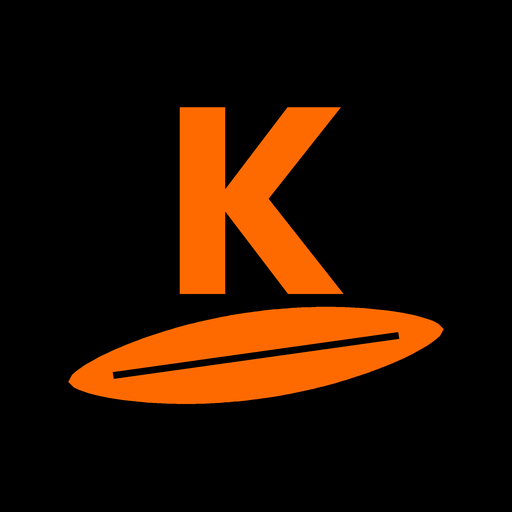
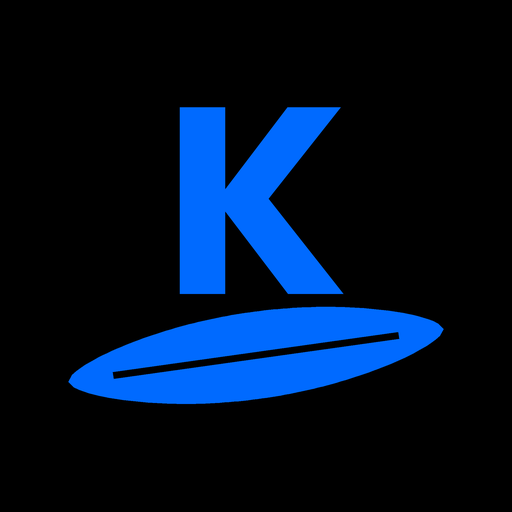
Add files via upload

Changed region(s): [[0.125, 0.1875, 0.875, 0.8125]]

diff --git a/index.html b/index.html
@@ -15,7 +15,7 @@
 <script src="https://cdn.jsdelivr.net/npm/@supabase/supabase-js@2"></script>
 <style>
 /* Change --a to your logo color */
-:root{--a:#ff6a00;--bg:#000;--c:#0d0d0d;--b:#262626;--t:#f2f2f2;--m:#8d8d8d;box-sizing:border-box}
+:root{--a:#2b7fff;--bg:#000;--c:#0d0d0d;--b:#262626;--t:#f2f2f2;--m:#8d8d8d;box-sizing:border-box}
 *{box-sizing:border-box}
 html,body{margin:0;background:var(--bg);color:var(--t);font:15px/1.4 system-ui,-apple-system,Segoe UI,Roboto,sans-serif}
 .wrap{max-width:720px;margin:0 auto;padding:calc(12px + env(safe-area-inset-top,0px)) 14px calc(90px + env(safe-area-inset-bottom,0px))}
@@ -26,10 +26,10 @@ input,select,textarea{width:100%;font:inherit;color:var(--t);background:#000;bor
 textarea{min-height:64px}
 label{display:block;font-size:12px;color:var(--m);margin:8px 0 3px}
 button,.btn{font:inherit;font-size:14px;color:var(--t);background:var(--c);border:1px solid var(--b);border-radius:10px;padding:8px 13px;text-decoration:none;display:inline-block}
-.pri{background:var(--a);border-color:var(--a);color:#000;font-weight:700}
+.pri{background:var(--a);border-color:var(--a);color:#fff;font-weight:700}
 .row{display:flex;gap:8px}.row>div{flex:1}
 .chips{display:flex;gap:6px;overflow-x:auto;padding:8px 0}
-.chip{flex:none;border-radius:99px;padding:6px 13px;font-size:13px}.chip.on{background:var(--a);border-color:var(--a);color:#000;font-weight:700}
+.chip{flex:none;border-radius:99px;padding:6px 13px;font-size:13px}.chip.on{background:var(--a);border-color:var(--a);color:#fff;font-weight:700}
 .tabs{display:flex;gap:6px;margin-bottom:10px;overflow-x:auto;scrollbar-width:none;-webkit-overflow-scrolling:touch}.tabs::-webkit-scrollbar{display:none}.tabs .chip{flex:none;text-align:center;padding:9px 15px}
 .stats{display:grid;grid-template-columns:repeat(2,1fr);gap:8px;margin-bottom:10px}
 .st{background:var(--c);border:1px solid var(--b);border-radius:12px;padding:10px 12px}
@@ -68,21 +68,46 @@ body.kmode{position:fixed;inset:0;overflow:hidden}
 .kmode #tabM{flex:1;min-height:0;display:flex;flex-direction:column}
 #mmap{height:46vh;border-radius:12px;border:1px solid var(--b,#2a2a2a);margin:8px 0}
 .kmode #mmap{flex:1;height:auto;min-height:120px}
-.mvx{width:34px;height:34px;display:flex;align-items:center;justify-content:center}.mvx::after{content:"";width:12px;height:12px;border-radius:50%;background:#fff;border:3px solid #ff6a00;box-sizing:border-box}
+.mvx{width:34px;height:34px;display:flex;align-items:center;justify-content:center}.mvx::after{content:"";width:12px;height:12px;border-radius:50%;background:#fff;border:3px solid #2b7fff;box-sizing:border-box}
 #mres{max-height:30vh;overflow-y:auto}
 .marow{display:flex;align-items:center;gap:8px;padding:5px 0;font-size:14px}.marow span{flex:1}.marow b{color:var(--a)}
 .calh{display:flex;justify-content:space-between;align-items:center;margin-bottom:6px}.calh b{font-size:16px}.calh button{padding:4px 12px;font-size:18px}
 .cal{display:grid;grid-template-columns:repeat(7,1fr);gap:3px}.cal .wd{text-align:center;font-size:11px;color:var(--m);padding:3px 0}
 .cd{aspect-ratio:1;padding:0;border-radius:10px;position:relative;font-size:14px;background:transparent;border:1px solid transparent}
-.cd.today{border-color:var(--a)}.cd.sel{background:var(--a);color:#000;font-weight:700}
+.cd.today{border-color:var(--a)}.cd.sel{background:var(--a);color:#fff;font-weight:700}
 .cd .dot{position:absolute;bottom:4px;left:50%;transform:translateX(-50%);width:6px;height:6px;border-radius:50%;background:var(--a)}
-.cd.sel .dot{background:#000}.cd .dot.done{background:#2f9e44}
+.cd.sel .dot{background:#fff}.cd .dot.done{background:#2f9e44}
 .next{border-color:var(--a)}.next b{color:var(--a)}
 .sec{display:flex;justify-content:space-between;align-items:baseline;margin:16px 0 6px}.sec h3{margin:0;font-size:16px}
 .mini{padding:6px 11px;font-size:13px}
 .opt{display:block;width:100%;text-align:left;padding:13px 14px;margin:6px 0;border-radius:12px;font-size:15px}
-.opt.on{background:var(--a);border-color:var(--a);color:#000;font-weight:700}
+.opt.on{background:var(--a);border-color:var(--a);color:#fff;font-weight:700}
 #calc select,#calc input{width:100%}
+/* ---- polish ---- */
+:root{--b:#232323;--c:#101010}
+.hd{position:sticky;top:0;z-index:30;margin:calc(-12px - env(safe-area-inset-top,0px)) -14px 10px;padding:calc(12px + env(safe-area-inset-top,0px)) 14px 6px;background:rgba(0,0,0,.88);-webkit-backdrop-filter:blur(14px);backdrop-filter:blur(14px)}
+.hd .bar{margin-bottom:8px}.hd .tabs{margin-bottom:2px}
+button,.btn{transition:transform .08s,background .15s,border-color .15s}button:active,.btn:active{transform:scale(.97)}
+input:focus,select:focus,textarea:focus{outline:none;border-color:var(--a);box-shadow:0 0 0 3px #2b7fff40}
+.card{border-radius:16px;padding:14px;margin-bottom:10px;background:var(--c)}
+.st{border-radius:14px}
+.tabs .chip{background:#111;border-color:#1c1c1c;color:#bbb}.tabs .chip.on{background:var(--a);border-color:var(--a);color:#fff}
+.badge{font-weight:600}
+.s-Lead{border-color:#666;color:#aaa}.s-Quoted{border-color:#1c7ed6;color:#5aaeff}.s-Scheduled{border-color:var(--a);color:var(--a)}.s-Done{border-color:#2f9e44;color:#6fdc87}.s-Paid{background:#2f9e44;border-color:#2f9e44;color:#00130a}
+.acts{gap:6px}.acts button,.acts .btn{padding:7px 12px;font-size:13px}
+.acts .g{background:transparent;border-color:transparent;color:var(--m)}
+dialog{border-radius:20px;max-height:92dvh;overflow:auto;box-shadow:0 20px 60px #000}
+.fabs{position:fixed;right:14px;bottom:calc(14px + env(safe-area-inset-bottom,0px));display:flex;gap:8px;z-index:25}
+.fabs .btn{padding:13px 18px;box-shadow:0 6px 22px #000c;border-radius:99px;font-size:15px}
+.row>div{min-width:0}input[type=date],input[type=time]{min-width:0;max-width:100%;-webkit-appearance:none;appearance:none;min-height:42px}
+.opt small{font-weight:400;opacity:.75;font-size:12px}
+.cb{position:relative;display:block}.cb input{padding-right:38px}
+.cbt{position:absolute;right:3px;top:3px;bottom:3px;width:34px;padding:0;border:none;background:transparent;color:var(--m);font-size:15px}
+.cbp{position:absolute;left:0;right:0;top:calc(100% + 4px);z-index:60;max-height:210px;overflow-y:auto;background:#161616;border:1px solid #333;border-radius:12px;padding:4px;box-shadow:0 12px 30px #000}
+.cbo{display:block;width:100%;text-align:left;border:none;background:transparent;padding:10px 12px;border-radius:8px;font-size:15px}.cbo:active{background:#262626}
+.nchips{display:flex;gap:6px;flex-wrap:wrap;margin-top:6px}.nchips button{padding:5px 11px;font-size:12px;border-radius:99px;color:var(--m)}
+.pc{display:block;width:100%;text-align:left;padding:15px 16px;margin:8px 0;border-radius:14px;font-size:16px;font-weight:700}.pc small{display:block;font-weight:400;font-size:12px;opacity:.8;margin-top:2px}
+.qmode .fullrow{display:none}
 [hidden]{display:none!important}
 </style>
 </head>
@@ -110,8 +135,8 @@ body.kmode{position:fixed;inset:0;overflow:hidden}
 <div id="app" hidden>
 <div class="wrap">
   <div id="net" hidden></div>
-  <div class="bar"><h1>Knock<span>Board</span></h1><span><button id="biz" title="My business">⚙</button> <button id="manage">Manage plan</button> <button id="out">Log out</button></span></div>
-  <div class="tabs"><button class="chip on" data-tab="H">Home</button><button class="chip" data-tab="C">Customers</button><button class="chip" data-tab="Q">Quick add</button><button class="chip" data-tab="K">Knocking</button><button class="chip" data-tab="M">Measure</button><button class="chip" data-tab="P">Profit</button></div>
+  <div class="hd"><div class="bar"><h1>Knock<span>Board</span></h1><span><button id="biz" title="Settings" aria-label="Settings">⚙</button></span></div>
+  <div class="tabs"><button class="chip on" data-tab="H">Home</button><button class="chip" data-tab="C">Customers</button><button class="chip" data-tab="Q">Quick add</button><button class="chip" data-tab="K">Knocking</button><button class="chip" data-tab="M">Measure</button><button class="chip" data-tab="P">Profit</button></div></div>
 
   <div id="tabH">
     <div class="card next" id="hnext"></div>
@@ -168,7 +193,7 @@ body.kmode{position:fixed;inset:0;overflow:hidden}
     <button id="msave" class="btn pri" style="width:100%;margin-top:8px;padding:13px">Save to customer</button>
   </div>
 </div>
-<button class="btn pri fab" id="add">+ New customer</button>
+<div class="fabs" id="fabs"><button class="btn" id="addq">⚡ Quick</button><button class="btn pri" id="add">+ New customer</button></div>
 
 <datalist id="svcs"></datalist>
 
@@ -180,8 +205,25 @@ body.kmode{position:fixed;inset:0;overflow:hidden}
   <div class="row"><div><label>Service</label><input id="f_svc" list="svcs"></div><div><label>Status</label><select id="f_status"></select></div></div>
   <div class="row"><div><label>Price ($)</label><input id="f_price" type="number" inputmode="decimal"></div><div><label>Source</label><input id="f_src" placeholder="Door knock, referral…"></div></div>
   <div class="row"><div><label>Job date</label><input id="f_job" type="date"></div><div><label>Follow up on</label><input id="f_fu" type="date"></div></div>
-  <label>Notes</label><textarea id="f_notes"></textarea>
+  <label>Notes</label><textarea id="f_notes"></textarea><div class="nchips" id="f_chips"></div>
   <div class="row" style="margin-top:12px;justify-content:space-between"><button id="del" style="color:#ff5c5c;flex:none">Delete</button><span style="text-align:right"><button id="cancel">Cancel</button> <button class="pri" id="save">Save</button></span></div>
+</dialog>
+
+<dialog id="sdlg">
+  <h2 style="margin:0 0 2px;font-size:19px">Settings</h2>
+  <div class="sub" id="semail" style="margin-bottom:10px"></div>
+  <button class="opt" id="editbiz">My business &amp; goals<br><small>Change your trade and what you use KnockBoard for</small></button>
+  <button class="opt" id="manage">Manage plan<br><small>Billing, payment method, cancel</small></button>
+  <button class="opt" id="out" style="color:#ff6b6b">Log out</button>
+  <div class="row" style="margin-top:8px;justify-content:flex-end"><button id="sclose">Close</button></div>
+</dialog>
+
+<dialog id="qdlg">
+  <h2 style="margin:0 0 4px;font-size:19px">⚡ Quick customer</h2>
+  <label>Name</label><input id="qd_name" autocomplete="off">
+  <label>Phone</label><input id="qd_phone" type="tel" inputmode="tel">
+  <label>Address (optional)</label><input id="qd_addr" autocomplete="off">
+  <div class="row" style="margin-top:12px;justify-content:flex-end"><button id="qd_cancel">Cancel</button> <button class="btn pri" id="qd_save">Save</button></div>
 </dialog>
 
 <dialog id="ob">
@@ -214,10 +256,16 @@ body.kmode{position:fixed;inset:0;overflow:hidden}
 <dialog id="pdlg">
   <h2 id="pt" style="margin:0 0 4px;font-size:18px">New house</h2>
   <div class="kbs"><button class="kb" data-r="Sold" style="background:#2f9e44">Sold</button><button class="kb" data-r="Quoted" style="background:#1c7ed6">Quoted/Waiting</button><button class="kb" data-r="Not home" style="background:#f08c00">Not home</button><button class="kb" data-r="No" style="background:#e03131">No</button></div>
+  <div id="pchoice" hidden>
+    <div class="sub" style="margin:4px 0 6px">Nice, a sale! How do you want to save this customer?</div>
+    <button class="pc btn pri" id="pc_quick">⚡ Quick customer<small>Just name, phone and address</small></button>
+    <button class="pc btn" id="pc_full">Full customer<small>Price, service and job date too</small></button>
+    <button id="pc_skip" style="width:100%">Just mark it sold</button>
+  </div>
   <div id="pform" hidden>
-    <label>Name</label><input id="p_name"><label>Phone</label><input id="p_phone" type="tel">
-    <div class="row"><div><label>Price ($)</label><input id="p_price" type="number" inputmode="decimal"></div><div><label>Service</label><input id="p_svc" list="svcs"></div></div>
-    <div class="row"><div><label id="p_dl">Date</label><input id="p_date" type="date"></div><div><label>Time</label><input id="p_time" type="time"></div></div>
+    <label>Name</label><input id="p_name"><label>Phone</label><input id="p_phone" type="tel"><label>Address (optional)</label><input id="p_addr">
+    <div class="row fullrow"><div><label>Price ($)</label><input id="p_price" type="number" inputmode="decimal"></div><div><label>Service</label><input id="p_svc" list="svcs"></div></div>
+    <div class="row fullrow"><div><label id="p_dl">Date</label><input id="p_date" type="date"></div><div><label>Time</label><input id="p_time" type="time"></div></div>
     <button class="pri" id="p_save" style="width:100%;margin-top:10px">Save sale</button>
   </div>
   <div class="row" style="justify-content:space-between;margin-top:12px"><button id="prem" style="color:#ff5c5c;flex:none">Remove pin</button><button id="pclose" style="flex:none">Close</button></div>
@@ -381,17 +429,17 @@ function render(){
       ${r.address?`<div class="sub">${esc(r.address)}</div>`:""}
       ${r.job_date?`<div class="sub">Job: ${esc(r.job_date)}</div>`:""}
       ${r.follow_up?`<div class="sub ${late?"due":""}">${["Paid","Done"].includes(r.status)?"Rebook reminder":"Follow up"}: ${esc(r.follow_up)}</div>`:""}
-      ${r.notes?`<div class="sub">${esc(r.notes)}</div>`:""}</div></div><span class="badge">${esc(r.status)}</span></div>
+      ${r.notes?`<div class="sub">${esc(r.notes)}</div>`:""}</div></div><span class="badge s-${esc(r.status)}">${esc(r.status)}</span></div>
       <div class="acts">${ph?`<a class="btn" href="tel:${ph}">Call</a><a class="btn" href="sms:${ph}">Text</a>`:""}
-      ${r.address?`<a class="btn" target="_blank" rel="noopener" href="https://maps.apple.com/?daddr=${encodeURIComponent(r.address)}">Directions</a>`:""}
-      <button data-share="${r.id}">Share</button>${r.status==="Paid"&&ph?`<button data-rv="${r.id}">Ask for review</button>`:""}${next?`<button data-adv="${r.id}">Move to ${next}</button>`:""}<button data-edit="${r.id}">Edit</button></div></div>`}).join("")
+      ${r.address?`<a class="btn g" target="_blank" rel="noopener" href="https://maps.apple.com/?daddr=${encodeURIComponent(r.address)}">Directions</a>`:""}
+      <button class="g" data-share="${r.id}">Share</button>${r.status==="Paid"&&ph?`<button data-rv="${r.id}">Ask for review</button>`:""}${next?`<button data-adv="${r.id}">Move to ${next}</button>`:""}<button class="g" data-edit="${r.id}">Edit</button></div></div>`}).join("")
     :`<div class="empty">No customers yet. Tap “+ New customer” or log a sale on the map.</div>`;
 }
 function openForm(r){
   editId=r?r.id:null;r=r||{};$("dt").textContent=r.id?"Edit customer":"New customer";
   const m={f_name:"name",f_phone:"phone",f_email:"email",f_addr:"address",f_svc:"service",f_price:"price",f_src:"source",f_job:"job_date",f_fu:"follow_up",f_notes:"notes"};
   for(const k in m)$(k).value=r[m[k]]||"";
-  $("f_status").value=r.status||"Lead";$("del").style.display=r.id?"":"none";$("dlg").showModal();
+  $("f_status").value=r.status||"Lead";$("del").style.display=r.id?"":"none";noteChips();$("dlg").showModal();
 }
 $("add").onclick=()=>openForm();
 $("cancel").onclick=()=>$("dlg").close();
@@ -483,7 +531,7 @@ function initMap(){
   map.on("click",e=>openPin({lat:e.latlng.lat,lng:e.latlng.lng}));
   if(navigator.geolocation)navigator.geolocation.watchPosition(p=>{
     const ll=[p.coords.latitude,p.coords.longitude];
-    if(!meMark){meMark=L.circleMarker(ll,{radius:8,color:"#ff6a00",weight:4,fillColor:"#fff",fillOpacity:1}).addTo(map);map.setView(ll,18)}else meMark.setLatLng(ll)},
+    if(!meMark){meMark=L.circleMarker(ll,{radius:8,color:"#2b7fff",weight:4,fillColor:"#fff",fillOpacity:1}).addTo(map);map.setView(ll,18)}else meMark.setLatLng(ll)},
     ()=>$("kmsg").textContent="Allow location for this site to see your white dot.",{enableHighAccuracy:true,maximumAge:2000});
   drawPins();
 }
@@ -503,24 +551,36 @@ function openPin(p){
   $("pt").textContent=p.id?"Update this house":"New house";
   $("p_name").value=p.name||"";$("p_phone").value=p.phone||"";$("p_price").value=p.price||"";$("p_svc").value=p.service||"";
   $("p_date").value=d?d.toLocaleDateString("en-CA"):"";$("p_time").value=d?d.toTimeString().slice(0,5):"";
-  $("pform").hidden=!["Sold","Quoted"].includes(p.result);setF(p.result);$("prem").hidden=!p.id;$("pdlg").showModal();
+  $("pform").hidden=!["Sold","Quoted"].includes(p.result);$("pform").classList.remove("qmode");$("pchoice").hidden=true;document.querySelector("#pdlg .kbs").hidden=false;$("p_addr").value="";setF(p.result);$("prem").hidden=!p.id;$("pdlg").showModal();
 }
-function savePin({dt,tm,...o}){
+function savePin({dt,tm,addr,...o}){
   const row={lat:cur.lat,lng:cur.lng,...o};
   if(cur.id)mutate("upd","pins",cur.id,row);else mutate("ins","pins",newId(),row);
   if((o.result==="Sold"||o.result==="Quoted")&&o.name){
     const q=o.result==="Quoted",ex=customers.find(c=>c.name===o.name&&(c.phone||"")===(o.phone||"")),
-      d={name:o.name,phone:o.phone,service:o.service,status:q?"Quoted":"Scheduled",price:o.price||0,source:"Door knock",job_date:q?null:(dt||null),follow_up:q?(dt||null):null,notes:tm?"Time: "+tm:null};
+      d={name:o.name,phone:o.phone,address:addr||"",service:o.service,status:q?"Quoted":"Scheduled",price:o.price||0,source:"Door knock",job_date:q?null:(dt||null),follow_up:q?(dt||null):null,notes:tm?"Time: "+tm:null};
     if(!ex)mutate("ins","customers",newId(),d);
     else if(!q&&["Lead","Quoted"].includes(ex.status))mutate("upd","customers",ex.id,{status:"Scheduled",price:d.price,job_date:d.job_date,service:d.service});
   }
   $("pdlg").close();
 }
 document.querySelectorAll("#pdlg .kb").forEach(b=>b.onclick=()=>{
-  const r=b.dataset.r;if(r==="Sold"||r==="Quoted"){cur={...cur,result:r};$("pform").hidden=false;setF(r)}else savePin({result:r})});
-$("p_save").onclick=()=>{const d=$("p_date").value,t=$("p_time").value;
-  savePin({result:cur.result,name:$("p_name").value.trim(),phone:$("p_phone").value.trim(),price:+$("p_price").value||0,service:$("p_svc").value.trim(),
-    visit_at:d?new Date(d+"T"+(t||"09:00")).toISOString():null,dt:d,tm:t})};
+  const r=b.dataset.r;
+  if(r==="Sold"&&!cur.id){cur={...cur,result:"Sold"};document.querySelector("#pdlg .kbs").hidden=true;$("pchoice").hidden=false;revGeo()}
+  else if(r==="Sold"||r==="Quoted"){cur={...cur,result:r};$("pform").hidden=false;setF(r)}else savePin({result:r})});
+$("pc_quick").onclick=()=>{$("pchoice").hidden=true;$("pform").classList.add("qmode");$("pform").hidden=false;$("p_save").textContent="Save customer";$("p_name").focus()};
+$("pc_full").onclick=()=>{$("pchoice").hidden=true;$("pform").classList.remove("qmode");$("pform").hidden=false;setF("Sold")};
+$("pc_skip").onclick=()=>savePin({result:"Sold"});
+async function revGeo(){
+  try{if(!MAPBOX_TOKEN.startsWith("pk.")||!cur||cur.lat==null)return;
+    const r=await fetch("https://api.mapbox.com/geocoding/v5/mapbox.places/"+cur.lng+","+cur.lat+".json?types=address&limit=1&access_token="+MAPBOX_TOKEN);
+    if(!r.ok)return;const j=await r.json(),f=j.features&&j.features[0];
+    if(f&&!$("p_addr").value)$("p_addr").value=f.place_name.replace(/,\s*United States$/,"");
+  }catch(e){}
+}
+$("p_save").onclick=()=>{const qm=$("pform").classList.contains("qmode");if(qm&&!$("p_name").value.trim()){$("p_name").focus();return}const d=qm?"":$("p_date").value,t=qm?"":$("p_time").value;
+  savePin({result:cur.result,name:$("p_name").value.trim(),phone:$("p_phone").value.trim(),price:qm?0:(+$("p_price").value||0),service:qm?"":$("p_svc").value.trim(),
+    visit_at:d?new Date(d+"T"+(t||"09:00")).toISOString():null,dt:d,tm:t,addr:$("p_addr").value.trim()})};
 $("prem").onclick=()=>{if(cur.id){mutate("del","pins",cur.id);$("pdlg").close()}};
 $("pclose").onclick=()=>$("pdlg").close();
 
@@ -549,7 +609,7 @@ function mAddMk(ll){
 }
 function mRedraw(skipMk){
   if(mCurLine){mm.removeLayer(mCurLine);mCurLine=null}
-  if(mCur.length>1)mCurLine=(mCur.length>2?L.polygon:L.polyline)(mCur,{color:"#ff6a00",weight:3,fillOpacity:.25}).addTo(mm);
+  if(mCur.length>1)mCurLine=(mCur.length>2?L.polygon:L.polyline)(mCur,{color:"#2b7fff",weight:3,fillOpacity:.25}).addTo(mm);
   mList();
 }
 function mList(){
@@ -673,7 +733,6 @@ $("obn").onclick=()=>{
   try{Promise.resolve(sb.auth.updateUser({data:{niches:p.niches,goals:p.goals,onboarded:true}})).catch(()=>{})}catch(e){}
   $("ob").close();applyProf();
 };
-$("biz").onclick=()=>openOb(true);
 
 const money2=n=>(n<0?"-":"")+"$"+Math.abs(n).toLocaleString(undefined,{minimumFractionDigits:2,maximumFractionDigits:2});
 function calcInit(){
@@ -725,7 +784,7 @@ let calM=new Date(new Date().getFullYear(),new Date().getMonth(),1),calSel=today
 const phoneOfC=r=>(r.phone||"").replace(/[^\d+]/g,"");
 const longDay=k=>parseD(k).toLocaleDateString("en-US",{weekday:"long",month:"short",day:"numeric"});
 const jobCard=(r,extra)=>{const ph=phoneOfC(r);return `<div class="card"><div class="top"><div><div class="nm">${esc(r.name)}</div>
-  <div class="sub">${esc(r.service||"")}${r.price?(r.service?" · ":"")+money(r.price):""}</div>${r.address?`<div class="sub">${esc(r.address)}</div>`:""}${extra||""}</div><span class="badge">${esc(r.status)}</span></div>
+  <div class="sub">${esc(r.service||"")}${r.price?(r.service?" · ":"")+money(r.price):""}</div>${r.address?`<div class="sub">${esc(r.address)}</div>`:""}${extra||""}</div><span class="badge s-${esc(r.status)}">${esc(r.status)}</span></div>
   <div class="acts">${ph?`<a class="btn mini" href="tel:${ph}">Call</a><a class="btn mini" href="sms:${ph}">Text</a>`:""}${r.address?`<a class="btn mini" target="_blank" rel="noopener" href="https://maps.apple.com/?daddr=${encodeURIComponent(r.address)}">Directions</a>`:""}<button class="mini" data-share="${r.id}">Share</button><button class="mini" data-edit="${r.id}">Edit</button></div></div>`};
 function homeUI(){
   if(!$("tabH"))return;
@@ -763,7 +822,7 @@ function homeUI(){
   if(rshow.length){h+=`<div class="sec"><h3>Time to rebook</h3><span class="sub">${rb.length} past customer${rb.length===1?"":"s"}</span></div>`+rshow.map(r=>{
     const ph=phoneOfC(r),n=nicheOf(r.service),svc=(r.service||"your service").toLowerCase(),ago=r.job_date?agoText(r.job_date):"a while ago",
       body=`Hi ${firstName(r.name)}, it's been ${ago.replace(" ago","")} since we did your ${svc}. Want me to get you back on the schedule?`;
-    return `<div class="card"><div class="top"><div><div class="nm">${esc(r.name)}</div><div class="sub">${VERB[n]||"Completed"}: ${esc(r.service||"job")} · ${ago}</div></div><span class="badge">${esc(r.status)}</span></div>
+    return `<div class="card"><div class="top"><div><div class="nm">${esc(r.name)}</div><div class="sub">${VERB[n]||"Completed"}: ${esc(r.service||"job")} · ${ago}</div></div><span class="badge s-${esc(r.status)}">${esc(r.status)}</span></div>
       <div class="acts">${ph?`<a class="btn mini" href="${smsHref([ph],body)}">Text to rebook</a><a class="btn mini" href="tel:${ph}">Call</a>`:""}<button class="mini" data-snooze="${r.id}">Remind me later</button><button class="mini" data-dismiss="${r.id}">Dismiss</button></div></div>`}).join("")}
   $("hattn").innerHTML=h;
 }
@@ -801,19 +860,65 @@ function qaList(){
 }
 $("qa_list").onclick=e=>{if(e.target.dataset.edit)openForm(customers.find(r=>r.id===e.target.dataset.edit))};
 $("qa_save").onclick=()=>{
-  const name=$("qa_name").value.trim(),phone=$("qa_phone").value.trim(),address=$("qa_addr").value.trim();
-  if(!name){$("qa_name").focus();return}
-  const dig=phone.replace(/\D/g,""),dup=dig&&customers.find(c=>(c.phone||"").replace(/\D/g,"")===dig);
-  if(dup&&!confirm(dup.name+" already has this number. Add anyway?"))return;
-  mutate("ins","customers",newId(),{name,phone,email:"",address,service:"",status:"Lead",price:0,source:"Quick add",job_date:null,follow_up:null,notes:""});
+  const name=$("qa_name").value.trim();if(!name){$("qa_name").focus();return}
+  if(!quickAdd(name,$("qa_phone").value,$("qa_addr").value))return;
   $("qa_name").value="";$("qa_phone").value="";$("qa_addr").value="";$("qa_msg").textContent="Added "+name+".";$("qa_name").focus();
 };
+
+/* ---- Dropdowns that still allow typing, tailored to the user's trade ---- */
+const SRC_BASE=["Door knock","Referral","Repeat customer","Google","Facebook","Nextdoor","Yard sign","Flyer / door hanger","Website"];
+const SRC_EXTRA={roofing:["Insurance / storm lead","Contractor referral"],pest:["Neighbor of a customer","Real estate agent"],solar:["Online lead","Utility / program lead"],window:["Property manager","Realtor"],pressure:["HOA / property manager","Realtor"],other:[]};
+const NOTE_BASE=["Call before arriving","Gate / access code:","Dog on property","Prefers text","Cash / check"];
+const NOTE_EXTRA={roofing:["2-story","Steep roof","Insurance claim"],pest:["Pets in home","Kids in home","Interior + exterior"],solar:["South-facing roof","Panel upgrade needed"],window:["Remove screens","2-story","Hard-water stains"],pressure:["Water & power on site","Oil stains","Seal after washing"],other:[]};
+const myNiches=()=>prof.niches&&prof.niches.length?prof.niches:["other"];
+const srcOpts=()=>[...new Set([...SRC_BASE.slice(0,3),...myNiches().flatMap(n=>SRC_EXTRA[n]||[]),...SRC_BASE.slice(3),...customers.map(c=>c.source).filter(Boolean)])];
+const svcOpts=()=>[...new Set([...svcBase(),...customers.map(c=>c.service),...pins.map(p=>p.service)].filter(Boolean))];
+const noteOpts=()=>[...new Set([...myNiches().flatMap(n=>NOTE_EXTRA[n]||[]),...NOTE_BASE])];
+const priceOpts=svcId=>()=>{const sv=($(svcId).value||"").trim().toLowerCase();
+  const a=[...new Set(customers.filter(c=>+c.price>0&&(!sv||(c.service||"").toLowerCase()===sv)).map(c=>String(+c.price)))].slice(0,10);
+  return a.length?a:["100","150","200","300","500","750","1000"]};
+function combo(id,getOpts){
+  const inp=$(id),w=document.createElement("span");w.className="cb";inp.parentNode.insertBefore(w,inp);w.appendChild(inp);inp.removeAttribute("list");
+  const t=document.createElement("button");t.type="button";t.className="cbt";t.textContent="▾";t.tabIndex=-1;t.setAttribute("aria-label","Show choices");
+  const pn=document.createElement("div");pn.className="cbp";pn.hidden=true;w.append(t,pn);
+  const show=filter=>{const q=(filter?String(inp.value):"").trim().toLowerCase();let o=getOpts().filter(x=>!q||String(x).toLowerCase().includes(q));
+    if(o.length===1&&String(o[0]).toLowerCase()===q)o=[];
+    pn.innerHTML=o.slice(0,40).map(x=>`<button type="button" class="cbo" data-v="${esc(x)}">${esc(x)}</button>`).join("");pn.hidden=!o.length};
+  t.onmousedown=e=>e.preventDefault();
+  t.onclick=()=>{if(pn.hidden){document.querySelectorAll(".cbp").forEach(x=>x.hidden=true);show(false)}else pn.hidden=true};
+  inp.addEventListener("input",()=>show(true));inp.addEventListener("focus",()=>show(true));
+  pn.onmousedown=e=>e.preventDefault();
+  pn.onclick=e=>{const v=e.target.dataset.v;if(v==null)return;inp.value=v;pn.hidden=true;inp.dispatchEvent(new Event("input",{bubbles:true}));pn.hidden=true};
+}
+document.addEventListener("pointerdown",e=>{if(!e.target.closest(".cb"))document.querySelectorAll(".cbp").forEach(x=>x.hidden=true)});
+combo("f_svc",svcOpts);combo("f_src",srcOpts);combo("f_price",priceOpts("f_svc"));
+combo("p_svc",svcOpts);combo("p_price",priceOpts("p_svc"));
+function noteChips(){$("f_chips").innerHTML=noteOpts().map(x=>`<button type="button" data-n="${esc(x)}">${esc(x)}</button>`).join("")}
+$("f_chips").onclick=e=>{const n=e.target.dataset.n;if(!n)return;const ta=$("f_notes");ta.value=(ta.value.trim()?ta.value.replace(/[\s;]*$/,"")+"; ":"")+n}
+
+/* ---- Quick customer (shared by the button, dialog and Quick add tab) ---- */
+function quickAdd(name,phone,address){
+  name=(name||"").trim();if(!name)return false;phone=(phone||"").trim();
+  const dig=phone.replace(/\D/g,""),dup=dig&&customers.find(c=>(c.phone||"").replace(/\D/g,"")===dig);
+  if(dup&&!confirm(dup.name+" already has this number. Add anyway?"))return false;
+  mutate("ins","customers",newId(),{name,phone,email:"",address:(address||"").trim(),service:"",status:"Lead",price:0,source:"Quick add",job_date:null,follow_up:null,notes:""});
+  return true;
+}
+$("addq").onclick=()=>{$("qd_name").value="";$("qd_phone").value="";$("qd_addr").value="";$("qdlg").showModal()};
+$("qd_cancel").onclick=()=>$("qdlg").close();
+$("qd_save").onclick=()=>{if(!$("qd_name").value.trim()){$("qd_name").focus();return}
+  if(quickAdd($("qd_name").value,$("qd_phone").value,$("qd_addr").value))$("qdlg").close()};
+/* ---- Settings ---- */
+$("biz").onclick=()=>{$("semail").textContent=user?user.email:"";$("sdlg").showModal()};
+$("sclose").onclick=()=>$("sdlg").close();
+$("editbiz").onclick=()=>{$("sdlg").close();openOb(true)};
+$("out").addEventListener("click",()=>$("sdlg").close());
 
 document.querySelector(".tabs").onclick=e=>{
   const t=e.target.dataset.tab;if(!t)return;
   document.querySelectorAll(".tabs .chip").forEach(b=>b.classList.toggle("on",b.dataset.tab===t));
   document.body.classList.toggle("kmode",t==="K"||t==="M");
-  $("tabH").hidden=t!=="H";$("tabC").hidden=t!=="C";$("tabQ").hidden=t!=="Q";$("tabK").hidden=t!=="K";$("tabM").hidden=t!=="M";$("tabP").hidden=t!=="P";$("add").hidden=!(t==="C"||t==="H");
+  $("tabH").hidden=t!=="H";$("tabC").hidden=t!=="C";$("tabQ").hidden=t!=="Q";$("tabK").hidden=t!=="K";$("tabM").hidden=t!=="M";$("tabP").hidden=t!=="P";$("fabs").hidden=!(t==="C"||t==="H");
   if(t==="K")initMap();if(t==="M")mInit();if(t==="P")calcInit();
 };
 </script>

diff --git a/sw.js b/sw.js
@@ -1,4 +1,4 @@
-const V="kb-shell-v1",T="kb-tiles-v1",MAX_TILES=400;
+const V="kb-shell-v2",T="kb-tiles-v1",MAX_TILES=400;
 const SHELL=["./","index.html","manifest.webmanifest","icon-192.png","icon-512.png",
 "https://unpkg.com/leaflet@1.9.4/dist/leaflet.css","https://unpkg.com/leaflet@1.9.4/dist/leaflet.js","https://cdn.jsdelivr.net/npm/@supabase/supabase-js@2"];
 self.addEventListener("install",e=>{e.waitUntil((async()=>{const c=await caches.open(V);await Promise.all(SHELL.map(u=>c.add(u).catch(()=>{})));self.skipWaiting()})())});

diff --git a/terms.html b/terms.html
@@ -6,7 +6,7 @@
 <meta name="theme-color" content="#000000">
 <title>Terms of Service | KnockBoard</title>
 <style>
-:root{--a:#ff6a00;--bg:#000;--t:#e9e9e9;--m:#8d8d8d;--b:#262626}
+:root{--a:#2b7fff;--bg:#000;--t:#e9e9e9;--m:#8d8d8d;--b:#262626}
 *{box-sizing:border-box}
 body{margin:0;background:var(--bg);color:var(--t);font:16px/1.6 system-ui,-apple-system,Segoe UI,Roboto,sans-serif}
 main{max-width:680px;margin:0 auto;padding:calc(24px + env(safe-area-inset-top,0px)) 20px 80px}

diff --git a/privacy.html b/privacy.html
@@ -6,7 +6,7 @@
 <meta name="theme-color" content="#000000">
 <title>Privacy Policy | KnockBoard</title>
 <style>
-:root{--a:#ff6a00;--bg:#000;--t:#e9e9e9;--m:#8d8d8d;--b:#262626}
+:root{--a:#2b7fff;--bg:#000;--t:#e9e9e9;--m:#8d8d8d;--b:#262626}
 *{box-sizing:border-box}
 body{margin:0;background:var(--bg);color:var(--t);font:16px/1.6 system-ui,-apple-system,Segoe UI,Roboto,sans-serif}
 main{max-width:680px;margin:0 auto;padding:calc(24px + env(safe-area-inset-top,0px)) 20px 80px}
